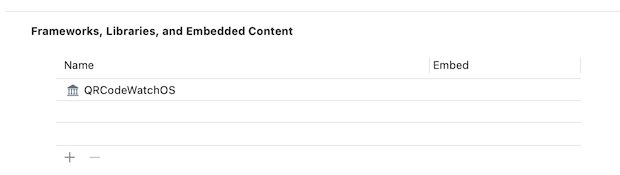
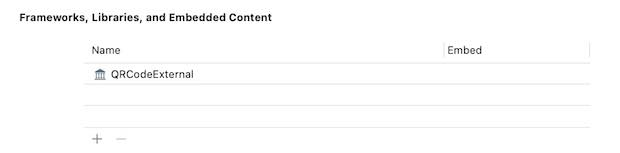
Renamed 'QRCodeWatchOS' to 'QRCodeExternal' and removed 'QRCode3rdPartyGenerator'
* Renamed `QRCodeWatchOS` to `QRCodeExternal`
* Renamed 'QRCodeGenerator_WatchOS' to 'QRCodeGenerator_External'

* Removed `QRCode3rdPartyGenerator` (replaced with `QRCodeExternal`)
* Removed 'QRCodeGenerator_3rdParty' (replaced with 'QRCodeGenerator_External')

diff --git a/Sources/QRCode/QRCode.swift b/Sources/QRCode/QRCode.swift
@@ -27,21 +27,20 @@ import Foundation
 
 /// A QRCode generator class
 @objc public class QRCode: NSObject {
-
 	/// The generator to use when generating the QR code.
 	///
 	/// Defaults to CoreImage on macOS/iOS/tvOS, or none on watchOS (import QRCode3rdPartyGenerator for watchOS)
 	@objc public var generator: QRCodeEngine = {
-		#if os(watchOS)
+#if os(watchOS)
 		// You must supply a 3rd party generator for watchOS (see README.md)
 		return QRCodeGenerator_None()
-		#else
+#else
 		return QRCodeGenerator_CoreImage()
-		#endif
+#endif
 	}()
 
 	/// Create a blank QRCode
-	@objc public override init() {
+	@objc override public init() {
 		super.init()
 		self.update(Data(), errorCorrection: .default)
 	}
@@ -57,8 +56,8 @@ import Foundation
 	@objc public init(
 		_ data: Data,
 		errorCorrection: ErrorCorrection = .default,
-		generator: QRCodeEngine? = nil)
-	{
+		generator: QRCodeEngine? = nil
+	) {
 		if let g = generator { self.generator = g }
 		super.init()
 		self.update(data, errorCorrection: errorCorrection)
@@ -68,8 +67,8 @@ import Foundation
 	@objc public init(
 		text: String,
 		errorCorrection: ErrorCorrection = .default,
-		generator: QRCodeEngine? = nil)
-	{
+		generator: QRCodeEngine? = nil
+	) {
 		if let g = generator { self.generator = g }
 		super.init()
 		self.update(text: text, errorCorrection: errorCorrection)
@@ -79,8 +78,8 @@ import Foundation
 	@objc public init(
 		message: QRCodeMessageFormatter,
 		errorCorrection: ErrorCorrection = .default,
-		generator: QRCodeEngine? = nil)
-	{
+		generator: QRCodeEngine? = nil
+	) {
 		if let g = generator { self.generator = g }
 		super.init()
 		self.update(message: message, errorCorrection: errorCorrection)
@@ -100,7 +99,7 @@ import Foundation
 
 extension QRCode: NSCopying {
 	/// Return a copy of the QR Code
-	public func copy(with zone: NSZone? = nil) -> Any {
+	@objc public func copy(with zone: NSZone? = nil) -> Any {
 		let c = QRCode()
 		c.current = self.current
 		return c
@@ -131,7 +130,6 @@ public extension QRCode {
 // MARK: - Ascii representations
 
 public extension QRCode {
-
 	/// Return an ASCII representation of the QR code using the extended ASCII code set
 	///
 	/// Only makes sense if presented using a fixed-width font

diff --git a/Package.swift b/Package.swift
@@ -29,23 +29,15 @@ let package = Package(
 		// watchOS convenience including the 3rd party generator
 
 		.library(
-			name: "QRCodeWatchOS",
+			name: "QRCodeExternal",
 			type: .static,
-			targets: ["QRCode", "QRCode3rdPartyGenerator"]
+			targets: ["QRCode", "QRCodeExternal"]
 		),
 
 		.library(
-			name: "QRCodeWatchOSDynamic",
+			name: "QRCodeExternalDynamic",
 			type: .dynamic,
-			targets: ["QRCode", "QRCode3rdPartyGenerator"]
-		),
-
-		// A wrapper around a 3rd party QR Code generator
-
-		.library(
-			name: "QRCode3rdPartyGenerator",
-			type: .static,
-			targets: ["QRCode3rdPartyGenerator"]
+			targets: ["QRCode", "QRCodeExternal"]
 		),
 	],
 	dependencies: [
@@ -71,7 +63,7 @@ let package = Package(
 
 		// The wrapper library for the 3rd party qr code generator
 		.target(
-			name: "QRCode3rdPartyGenerator",
+			name: "QRCodeExternal",
 			dependencies: [
 				.product(
 					name: "QRCodeGenerator",
@@ -92,7 +84,7 @@ let package = Package(
 		// testing target
 		.testTarget(
 			name: "QRCodeTests",
-			dependencies: ["QRCode", "QRCode3rdPartyGenerator"],
+			dependencies: ["QRCode", "QRCodeExternal"],
 			resources: [
 				.process("resources"),
 			]

diff --git a/Demo/QRCodeView Demo/QRCode WatchOS Demo WatchKit Extension/QRCodeView_DemoApp.swift b/Demo/QRCodeView Demo/QRCode WatchOS Demo WatchKit Extension/QRCodeView_DemoApp.swift
@@ -7,14 +7,14 @@
 
 import SwiftUI
 import QRCode
-import QRCode3rdPartyGenerator
+import QRCodeExternal
 
 class testing {
 	init() {
-		let document = QRCode.Document(generator: QRCodeGenerator_WatchOS())
+		let document = QRCode.Document(generator: QRCodeGenerator_External())
 		document.errorCorrection = .quantize
 		document.data = "Generating a QR Code using watchOS".data(using: .utf8)!
-
+		
 		let generatedImage = document.uiImage(CGSize(width: 400, height: 400))!
 		Swift.print(generatedImage)
 	}
@@ -23,11 +23,11 @@ class testing {
 @main
 struct QRCodeView_DemoApp: App {
 	let t = testing()
-    var body: some Scene {
-        WindowGroup {
-            NavigationView {
-                ContentView()
-            }
-        }
-    }
+	var body: some Scene {
+		WindowGroup {
+			NavigationView {
+				ContentView()
+			}
+		}
+	}
 }

diff --git a/Tests/QRCodeTests/QRCodeDetectionTests.swift b/Tests/QRCodeTests/QRCodeDetectionTests.swift
@@ -3,7 +3,7 @@ import XCTest
 #if !os(watchOS)
 
 @testable import QRCode
-@testable import QRCode3rdPartyGenerator
+@testable import QRCodeExternal
 
 #if os(macOS)
 typealias CommonImage = NSImage
@@ -20,7 +20,7 @@ final class QRCodeDetectionTests: XCTestCase {
 	func test3rdPartyGenerator() throws {
 
 		// Make sure the third party generator can generate a qr code
-		let doc = QRCode.Document(generator: QRCodeGenerator_3rdParty())
+		let doc = QRCode.Document(generator: QRCodeGenerator_External())
 
 		_ = doc.setString("This is a test")
 

diff --git a/Sources/QRCodeExternal/QRCodeExternal.swift b/Sources/QRCodeExternal/QRCodeExternal.swift
@@ -32,7 +32,7 @@ import QRCode
 ///
 /// By wrapping the 3rd party library in a separate Swift module it provides the flexibility to ignore it if you
 /// don't need it.
-public class QRCodeGenerator_3rdParty: QRCodeEngine {
+public class QRCodeGenerator_External: QRCodeEngine {
 
 	public init() {}
 
@@ -58,6 +58,3 @@ public class QRCodeGenerator_3rdParty: QRCodeEngine {
 		return result
 	}
 }
-
-/// A convenience alias for watchOS (more understandable code)
-public typealias QRCodeGenerator_WatchOS = QRCodeGenerator_3rdParty

diff --git a/Demo/WatchQR/WatchQR WatchKit Extension/ContentView.swift b/Demo/WatchQR/WatchQR WatchKit Extension/ContentView.swift
@@ -8,14 +8,14 @@
 import SwiftUI
 
 import QRCode
-import QRCode3rdPartyGenerator
+import QRCodeExternal
 
 struct ContentView: View {
 
 	let fixedCode = QRCodeUI(
 		text: "Generating a QR Code using watchOS - wheeeee!",
 		errorCorrection: .quantize,
-		generator: QRCodeGenerator_WatchOS())!
+		generator: QRCodeGenerator_External())!
 
 	var dataColor: Color = Color(red: 1.0, green: 1.0, blue: 0.5)
 	var eyeColor: Color = .yellow

diff --git a/Sources/QRCode/QRCode+Document.swift b/Sources/QRCode/QRCode+Document.swift
@@ -44,6 +44,16 @@ public extension QRCode {
 			}
 		}
 
+		/// A UTF8 string to display in the QR code
+		@objc public var utf8String: String? {
+			get {
+				String(data: self.data, encoding: .utf8)
+			}
+			set {
+				self.data = newValue?.data(using: .utf8) ?? Data()
+			}
+		}
+
 		/// The style to use when drawing the qr code
 		@objc public var design = QRCode.Design() {
 			didSet { self.regenerate() }

diff --git a/Demo/QRCodeView Demo/QRCode WatchOS Demo WatchKit Extension/ContentView.swift b/Demo/QRCodeView Demo/QRCode WatchOS Demo WatchKit Extension/ContentView.swift
@@ -8,13 +8,13 @@
 import SwiftUI
 
 import QRCode
-import QRCode3rdPartyGenerator
+import QRCodeExternal
 
 struct ContentView: View {
 	let fixedCode = QRCodeUI(
 		text: "QRCode WatchOS Demo",
 		errorCorrection: .quantize,
-		generator: QRCodeGenerator_WatchOS())!
+		generator: QRCodeGenerator_External())!
 
 	var dataColor: Color = Color(red: 1.0, green: 1.0, blue: 0.5)
 	var eyeColor: Color = .yellow

diff --git a/Demo/QRCodeView Demo/QRCodeView iOS Demo/AppDelegate.swift b/Demo/QRCodeView Demo/QRCodeView iOS Demo/AppDelegate.swift
@@ -35,7 +35,7 @@ extension AppDelegate {
 	func generateQRCodeImage() {
 
 		let doc = QRCode.Document()
-		doc.data = "This is a test".data(using: .utf8)!
+		doc.utf8String = "This is a test"
 		doc.errorCorrection = .high
 
 		// Generate a CGPath object containing the QR code

diff --git a/Tests/QRCodeTests/QRCodeTests.swift b/Tests/QRCodeTests/QRCodeTests.swift
@@ -1,6 +1,6 @@
 import XCTest
 @testable import QRCode
-@testable import QRCode3rdPartyGenerator
+@testable import QRCodeExternal
 
 final class QRCodeTests: XCTestCase {
 

diff --git a/README.md b/README.md
@@ -74,7 +74,7 @@ You can further style the qr code (see below)
  
 ```swift
 let doc = QRCode.Document()
-doc.data = "This is a test".data(using: .utf8)!
+doc.utf8String = "This is a test"
 doc.errorCorrection = .high
 
 // Set the background color to clear
@@ -101,18 +101,43 @@ let loadedDoc = try QRCode.Document(jsonData: jsonData)
 
 </details>
 
-If you have used earlier version of this library, you would have used `QRCode` for generating qr codes. The `QRCode.Document` object wraps both the `QRCode` and the design object for the QR code into a single class to allow loading and saving. Existing code that uses `QRCode` directly will not be affected.
+## Using `QRCode` in your project
 
-### Special requirements for watchOS
+### QRCode / QRCodeDynamic
 
-Due to watchOS limitations the `QRCodeWatchOS` products include a [3rd-party QR code generator](https://github.com/fwcd/swift-qrcode-generator) 
-for creating a raw QR code.
+This is the base QRCode generator that uses Core Image to generate QR Codes. 
+If you're developing for **macOS, macCatalyst, iOS or tvOS** this is most likely all that you'll need to use.
 
-To use `QRCode` within your watchOS app, you will need to :-
+1. Link against `QRCode` OR `QRCodeDynamic`
+2. Add `import QRCode` to any source files
 
-1. Link your project against the `QRCodeWatchOS` library instead of `QRCode`.
-2. Import `QRCode3rdPartyGenerator` in your sources **IN ADDITION** to `QRCode`
-3. Provide the `QRCodeGeneratorWatchOS` generator when creating your QRCode document.
+<details>
+<summary>Click here to see a code example</summary>
+
+```swift
+import QRCode
+
+let doc = QRCode.Document()
+
+// Create a qr code containing "Example Text" and set the error correction to high ('H') with the default design
+doc.utf8String = "This is a test"
+doc.errorCorrection = .high
+
+// And generate a UIImage from the pdf data
+let generatedImage = doc.uiImage(CGSize(width: 400, height: 400))
+```
+
+</details>
+
+### QRCodeExternal / QRCodeExternalDynamic
+
+**watchOS** limitations require that a [3rd-party QR code generation library](https://github.com/fwcd/swift-qrcode-generator)
+is required to generate the raw QR code data on-device. These libraries can also be used for macOS, macCatalyst, iOS and 
+tvOS if you need consistent QR codes across multiple platforms including watchOS.
+
+1. Link against `QRCodeExternal` or `QRCodeExternalDynamic`
+2. Import both `QRCode` and `QRCodeExternal` in your source file(s)
+3. When creating your `QRCode()` or `QRCode.Document()`, provide `QRCodeGenerator_External()` as the generator. 
 
 <details>
 <summary>Click here to see a watchOS code example</summary>
@@ -121,12 +146,12 @@ To use `QRCode` within your watchOS app, you will need to :-
 // watchOS generation sample
 
 import QRCode
-import QRCode3rdPartyGenerator
+import QRCodeExternal
 
-let doc = QRCode.Document(generator: QRCodeGeneratorWatchOS())
+let doc = QRCode.Document(generator: QRCodeGenerator_External())
 
 // Create a qr code containing "Example Text" and set the error correction to high ('H') with the default design
-doc.data = "Example text".data(using: .utf8)!
+doc.utf8String = "This is a test"
 doc.errorCorrection = .high
 
 // And generate a UIImage from the pdf data
@@ -141,8 +166,9 @@ let generatedImage = doc.uiImage(CGSize(width: 400, height: 400))
 
 There is also a very basic example called `WatchQR` in the `Demos` folder
 
-Why this additional complexity? Including a 3rd party dependency always introduces more risk. 
-If you don't need watchOS support, you should link against `QRCode` and reduce both your code complexity and risk surface.
+**NOTE:** Including a 3rd party dependency always introduces more risk.
+If you don't need watchOS support, you should probably avoid using either `QRCodeExternal` or `QRCodeExternalDynamic`
+to reduce both your code complexity and risk surface.
 
 ## Settings
 
